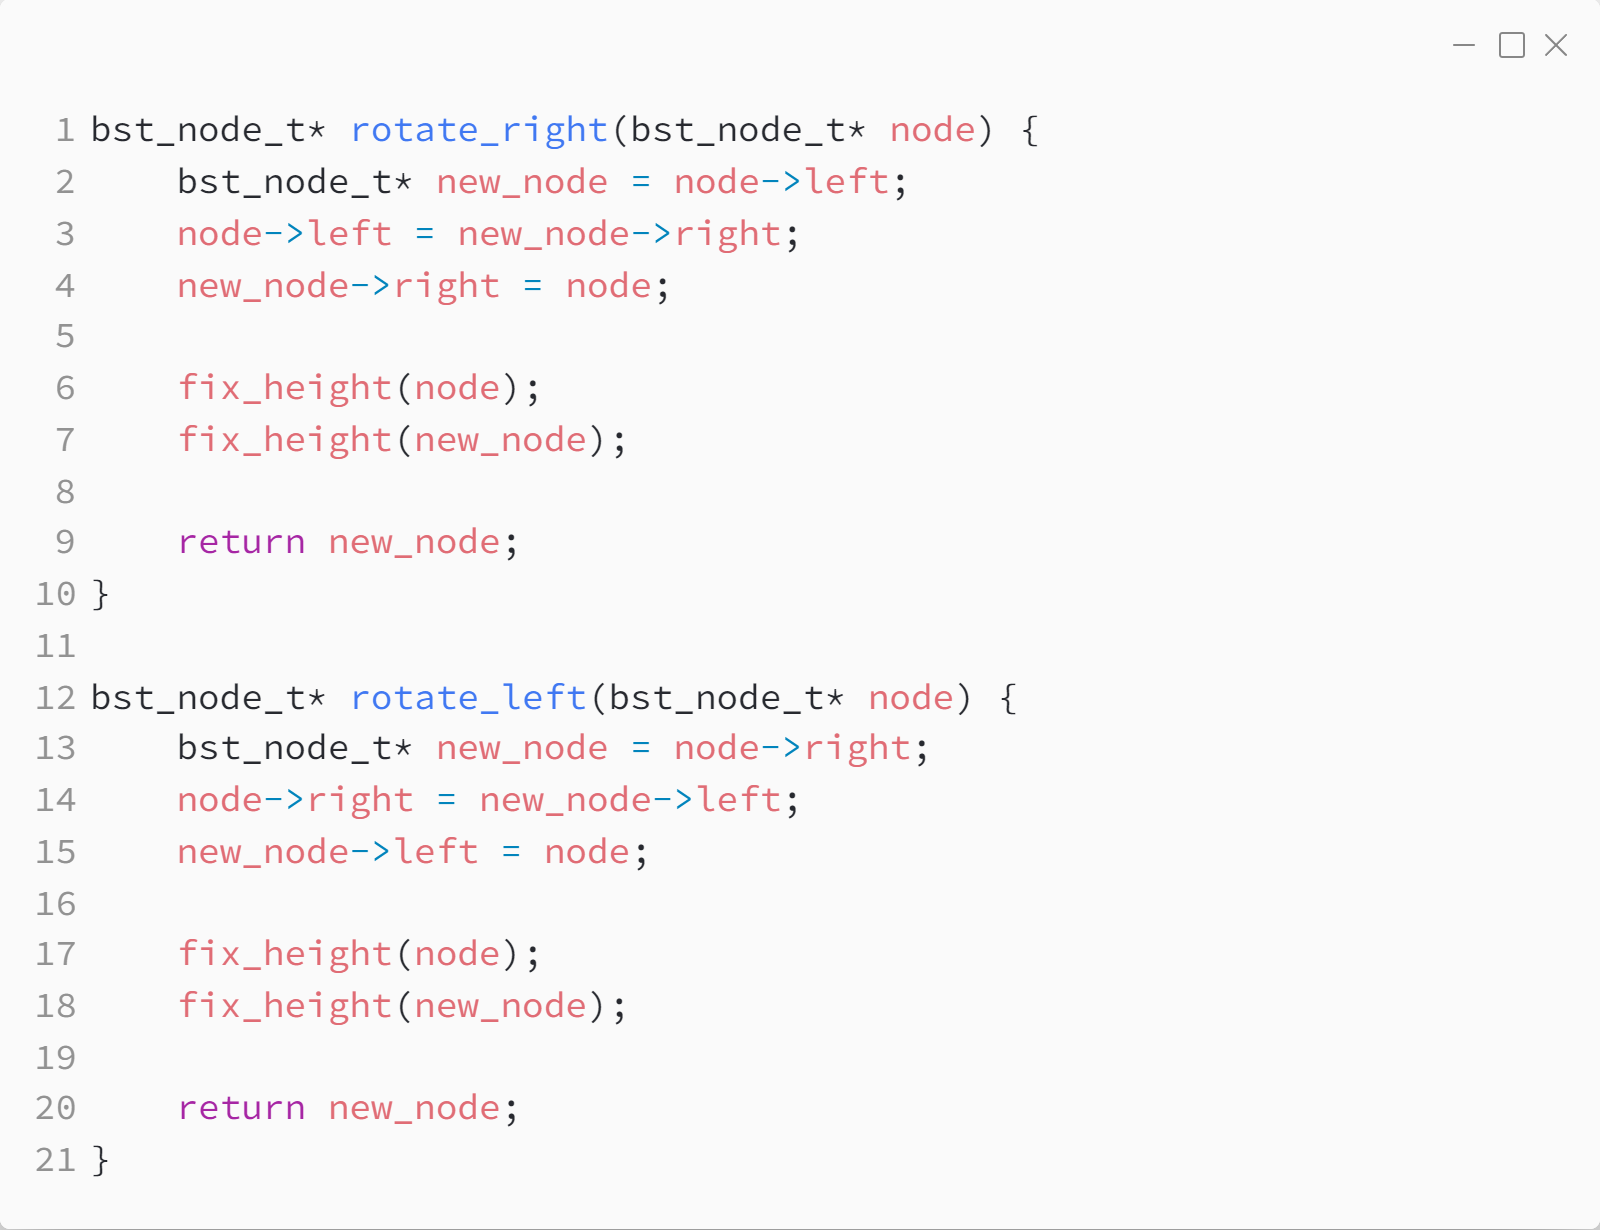
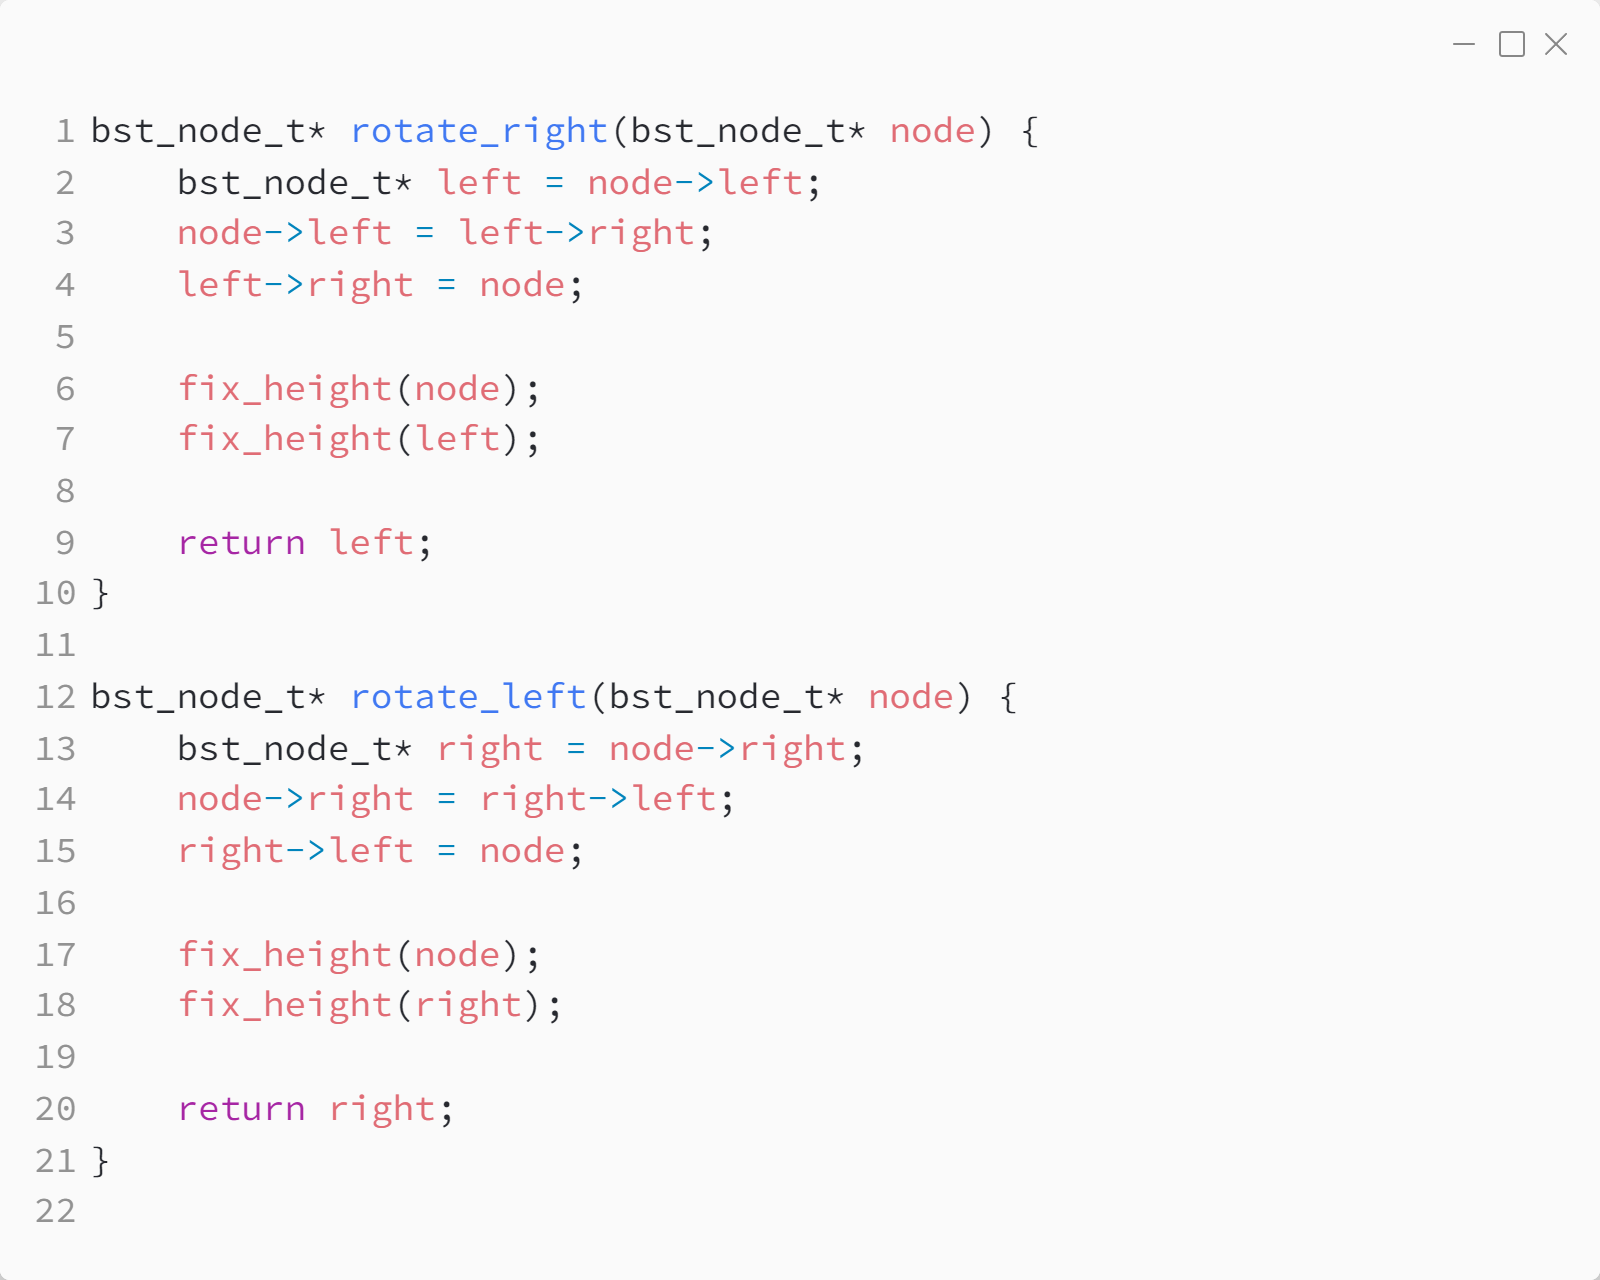
fix small issues

diff --git a/8_bst/practice/src/bst_avl.c b/8_bst/practice/src/bst_avl.c
@@ -69,25 +69,25 @@ void fix_height(bst_node_t* node) {
 }
 
 bst_node_t* rotate_right(bst_node_t* node) {
-    bst_node_t* new_node = node->left;
-    node->left = new_node->right;
-    new_node->right = node;
+    bst_node_t* left = node->left;
+    node->left = left->right;
+    left->right = node;
 
     fix_height(node);
-    fix_height(new_node);
+    fix_height(left);
 
-    return new_node;
+    return left;
 }
 
 bst_node_t* rotate_left(bst_node_t* node) {
-    bst_node_t* new_node = node->right;
-    node->right = new_node->left;
-    new_node->left = node;
+    bst_node_t* right = node->right;
+    node->right = right->left;
+    right->left = node;
 
     fix_height(node);
-    fix_height(new_node);
+    fix_height(right);
 
-    return new_node;
+    return right;
 }
 
 bst_node_t* balance(bst_node_t* node) {

diff --git a/8_bst/practice/src/bst.c b/8_bst/practice/src/bst.c
@@ -145,7 +145,7 @@ bool _find_node(bst_node_t* node, int value) {
         return _find_node(node->left, value);
 }
 
-void find_node(bst_t* bst, uint32_t value) {
+bool find_node(bst_t* bst, uint32_t value) {
     return _find_node(bst->root, value);
 }
 
